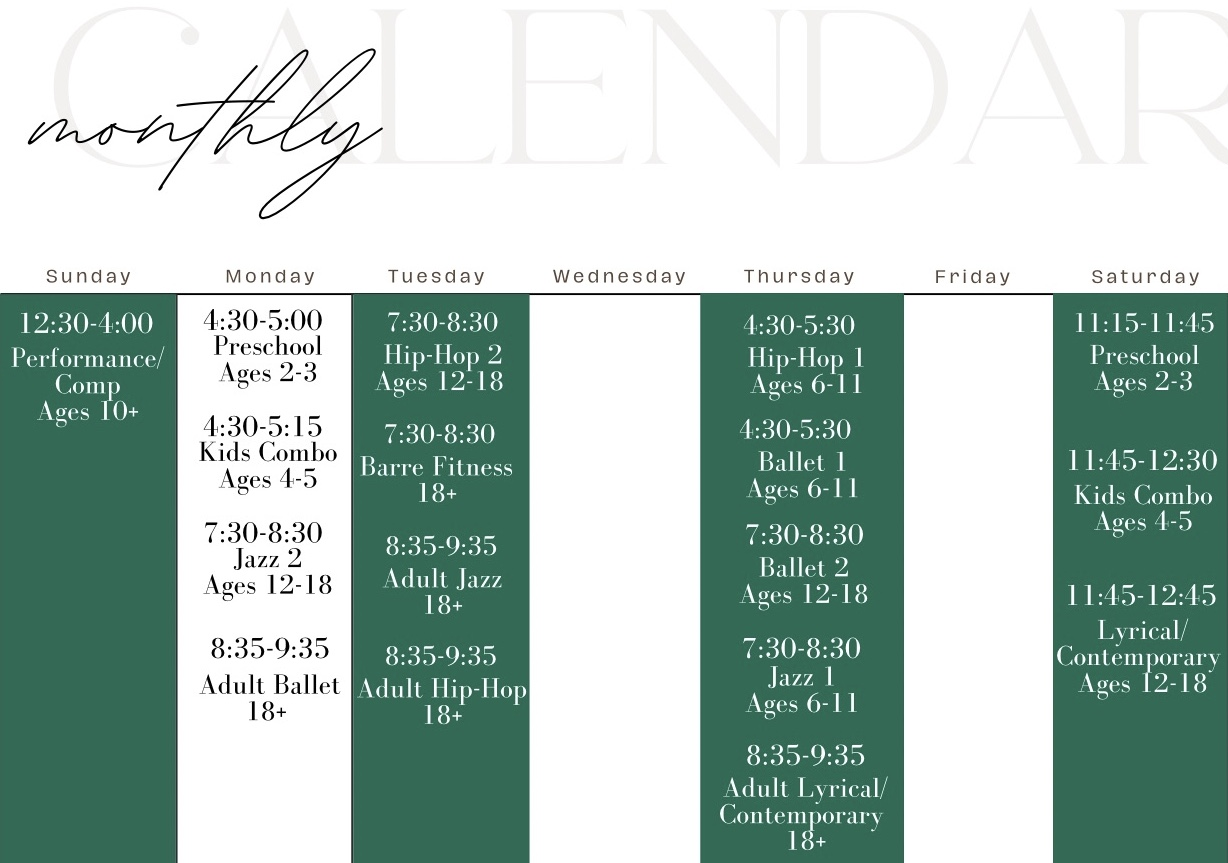
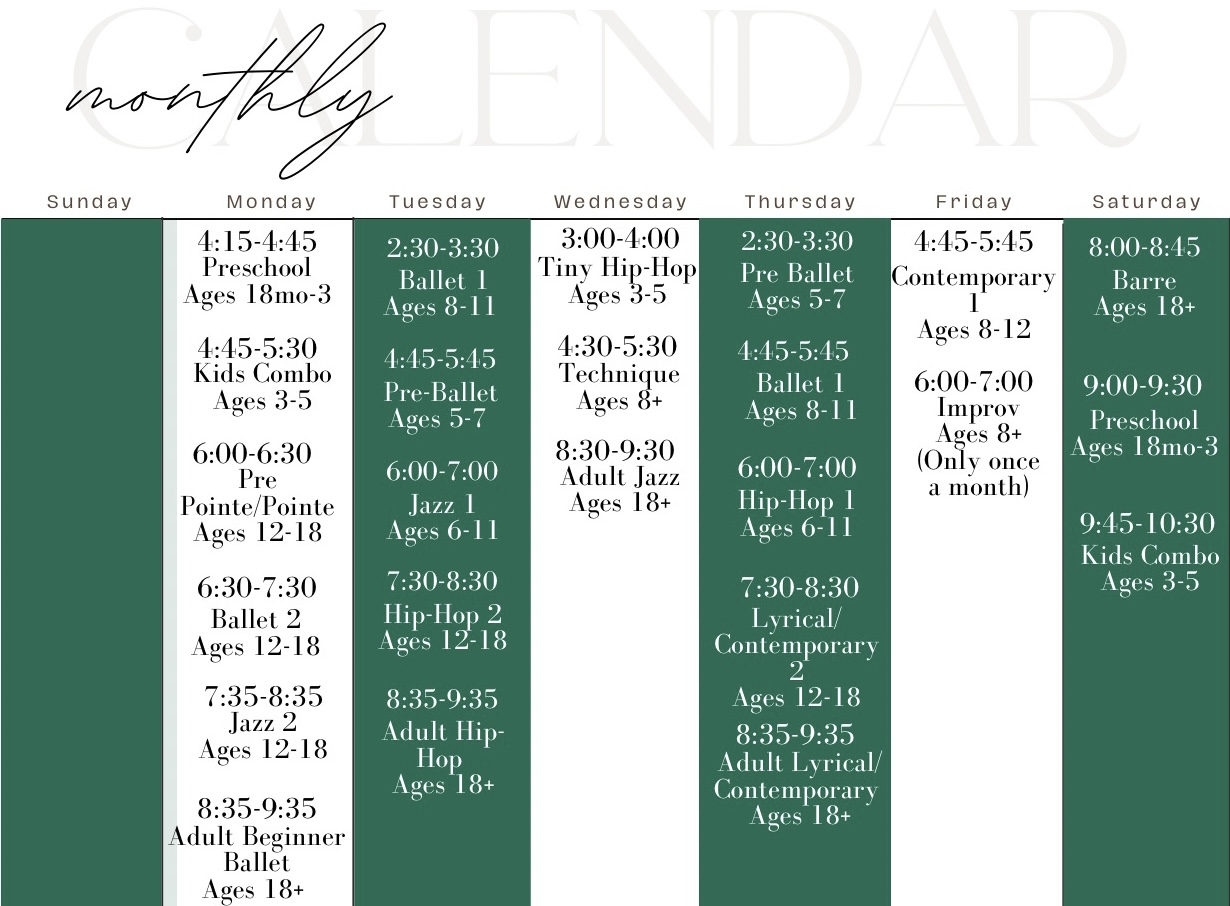
Add privacy policy. Update instructors. Update class calendar. Update location. Update several text fields.

Changed region(s): [[0.0, 0.0301, 1.0, 1.0]]

diff --git a/src/pages/home.jsx b/src/pages/home.jsx
@@ -66,7 +66,7 @@ function Home() {
       <h1 className='home-welcome-text'>Welcome to Treasured Dance Studio!</h1>
       <p className='home-welcome-content'>
         A premier dance studio located in Meridian, Idaho offering dance classes for 
-        adults and kids ages 2+.
+        adults and kids 18 months and older.
       </p>
       <div className='home-studio-img-div'>
         <ResponsiveImage
@@ -172,7 +172,7 @@ function Home() {
       </div>
       <div className='home-bottom-div'>
         <p>
-          We have classes Monday, Tuesday, Thursday, Saturday, and Sunday each week. Kids classes start 
+          We have classes everyday except Sunday. Kids classes start 
           at $45 a month, and adult classes start at $65 a month. Dancers taking more than one 
           class or parents enrolling more than one dancer receive discounts. See more about pricing
           and classes below.
@@ -184,15 +184,15 @@ function Home() {
       </div>
       <div className='home-address-div'>
         <h2>Come Visit Us</h2>
-        <p>We are located inside EnVie Fitness Studio in Meridian on Linder
-          and Chinden!
+        <p>We are located inside Cherry Plaza Center Meridian on Fairview
+          and Meridian!
         </p>
         <p>
-          1735 W Chinden Blvd #120, Meridian, ID 83646.
+          58 E Fairview Ave, Meridian, ID 83646.
         </p>
       </div>
       <div className='home-location-img-div'>
-        <ResponsiveImage 
+        {/* <ResponsiveImage 
           avifSrcSet={`
             ${LocationImg256wAVIF} 256w,
             ${LocationImg890wAVIF} 890w,
@@ -218,7 +218,7 @@ function Home() {
           "
           src={LocationImg}
           alt='Dance studio located in Meridian, Idaho'
-        />
+        /> */}
       </div>
     </div>
   )

diff --git a/src/pages/about.jsx b/src/pages/about.jsx
@@ -3,7 +3,6 @@ import AboutSection from '../components/AboutSection';
 import MissEmilyImg from '../images/about/emilyImg.jpg';
 import MissHannahImg from '../images/about/hannahImg.jpg';
 import MissKaitlynImg from '../images/about/kaitlynImg.jpg';
-import MissLaurenImg from '../images/about/laurenImg.jpg';
 import FullLogoImg from '../images/FullLogo.PNG';
 import '../styles.css';
 
@@ -51,16 +50,6 @@ function About() {
                 also a small business owner of a local coffee shop that she 
                 started with her dad. She cannot wait to share her love of dance
                 with her students!"
-      />
-      <AboutSection
-        image={MissLaurenImg}
-        heading='Meet Miss Lauren'
-        content="She has been dancing since she was almost 2 years old. Growing
-         up she did ballet, jazz, tap, and ensemble team dance. Her favorites 
-         have always been jazz and ensemble! She did color guard in junior high 
-         and high school with Miss Emily as her coach. After graduating, she 
-         joined Treasured Dance Studio! Dance has always been one of her strongest 
-         passions and greatest joys. She is excited to dance with you!"
       />
       <AboutSection 
         image={FullLogoImg}

diff --git a/src/components/Footer.jsx b/src/components/Footer.jsx
@@ -8,7 +8,7 @@ function Footer() {
         <div className="footer-content">
           <div className="footer-section">
             <h3>Address</h3>
-            <p>1735 W Chinden Blvd #120</p>
+            <p>58 E Fairview Ave</p>
             <p>Meridian, ID 83646</p>
           </div>
           <div className="footer-section">
@@ -37,6 +37,9 @@ function Footer() {
             <li>
               <Link to="/get-started">Get Started</Link>
             </li>
+            <li>
+              <Link to="/privacy-policy">Privacy Policy</Link>
+            </li>
           </ul>
         </div>
         <div className="footer-social">
@@ -56,7 +59,7 @@ function Footer() {
         </div>
       </footer>
       <div className='copyright-div'>
-        <p>© 2023 Treasured Dance Studio, LLC - All Rights Reserved</p>
+        <p>© 2024 Treasured Dance Studio, LLC - All Rights Reserved</p>
       </div>   
     </>
   );

diff --git a/src/pages/privacy-policy.jsx b/src/pages/privacy-policy.jsx
@@ -1,0 +1,20 @@
+import React from 'react';
+import '../styles.css';
+
+function PrivacyPolicy() {
+    return (
+        <div className="privacy-policy-div">
+            <h1>Privacy Policy</h1>
+            <p>The privacy of your personal information is very important to 
+                Treasured Dance Studio, LLC. We will not sell, rent, or trade 
+                your personal information to any third party. Special care 
+                will be taken to protect the privacy and security of your 
+                information. It will only be used for studio purposes and to 
+                comply with the law. If you have any questions regarding this
+                policy, please reach out to us at treasureddancestudio@gmail.com.
+            </p>
+        </div>
+    )
+}
+
+export default PrivacyPolicy;

diff --git a/src/App.js b/src/App.js
@@ -7,6 +7,7 @@ import Home from './pages/home';
 import GetStarted from './pages/get-started';
 import Navbar from './components/Navbar';
 import Footer from './components/Footer';
+import PrivacyPolicy from './pages/privacy-policy';
 
 
 
@@ -20,6 +21,7 @@ function App() {
             <Route path='classes' element={<Classes />} />
             <Route path='about' element={<About />} />
             <Route path='get-started' element={<GetStarted />} />
+            <Route path='privacy-policy' element={<PrivacyPolicy />} />
         </Routes>
       </div>
       <Footer />

diff --git a/src/pages/get-started.jsx b/src/pages/get-started.jsx
@@ -55,11 +55,7 @@ function GetStarted() {
           <li>Water bottle with name on it</li>
           <li>Hair up and out of face</li>
         </ul>
-      <p>
-        Due to using space at a studio, we cannot 
-        have bare feet or half-sole shoes. We want to respect the 
-        facilities, so please come in proper class attire.
-      </p>
+      <p>We can't wait to see you in class!</p>
       </div>
     </div>
   )
